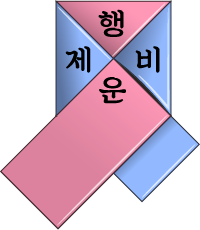
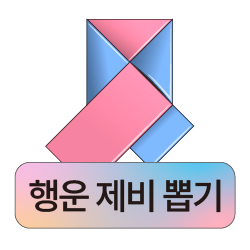
플로팅 이벤트 아이콘 이미지 정리

diff --git a/index-en.html b/index-en.html
@@ -245,7 +245,7 @@
         .lottery-float-button {
             position: fixed;
             right: 0.55rem;
-            top: 5.1rem;
+            top: calc(50vh - 6.85rem);
             z-index: 999998;
             width: 6.375rem;
             height: 6.375rem;
@@ -267,47 +267,36 @@
         }
         .letter-progress-button {
             position: fixed;
-            right: 1.05rem;
-            top: 11.35rem;
+            right: 0.55rem;
+            top: calc(50vh - 0.15rem);
             z-index: 999997;
-            width: 4.25rem;
-            height: 4.25rem;
-            border-radius: 999px;
-            border: 1px solid rgba(255, 255, 255, 0.32);
-            background: linear-gradient(135deg, rgba(206, 147, 179, 0.78), rgba(125, 185, 227, 0.78));
-            box-shadow: 0 12px 28px rgba(36, 59, 107, 0.28), inset 0 1px 0 rgba(255, 255, 255, 0.24);
-            backdrop-filter: blur(8px) saturate(115%);
-            -webkit-backdrop-filter: blur(8px) saturate(115%);
-            color: #ffffff;
-            display: flex;
-            flex-direction: column;
-            align-items: center;
-            justify-content: center;
-            gap: 0.08rem;
+            width: 6.375rem;
+            height: 6.375rem;
+            border: 0;
+            padding: 0;
+            border-radius: 0;
+            background: transparent;
+            box-shadow: none;
+            display: block;
             text-decoration: none;
-            text-align: center;
-            font-weight: 800;
-            letter-spacing: -0.02em;
-            transition: transform 0.2s ease, box-shadow 0.2s ease;
+            cursor: pointer;
         }
 
         .letter-progress-button:hover {
             transform: translateY(-2px);
-            box-shadow: 0 16px 34px rgba(36, 59, 107, 0.36), inset 0 1px 0 rgba(255, 255, 255, 0.26);
         }
 
         .letter-progress-button:active {
             transform: translateY(0);
         }
 
-        .letter-progress-button .letter-mark {
-            font-size: 1.28rem;
-            line-height: 1;
-        }
-
-        .letter-progress-button .letter-label {
-            font-size: 0.7rem;
-            line-height: 1.05;
+        .letter-progress-button img {
+            display: block;
+            width: 100%;
+            height: 100%;
+            object-fit: contain;
+            filter: drop-shadow(0 10px 18px rgba(36, 59, 107, 0.28));
+            pointer-events: none;
         }
 
 
@@ -2172,8 +2161,7 @@
 
     <!-- 하단 네비게이션 - 완전 독립 -->
     <a class="letter-progress-button" href="/letter-progress" aria-label="View letter event progress">
-        <span class="letter-mark">LETTER</span>
-        <span class="letter-label">Progress</span>
+        <img src="images/letter-progress.png" alt="">
     </a>
 
 

diff --git a/index.html b/index.html
@@ -245,7 +245,7 @@
         .lottery-float-button {
             position: fixed;
             right: 0.55rem;
-            top: 5.1rem;
+            top: calc(50vh - 6.85rem);
             z-index: 999998;
             width: 6.375rem;
             height: 6.375rem;
@@ -267,47 +267,36 @@
         }
         .letter-progress-button {
             position: fixed;
-            right: 1.05rem;
-            top: 11.35rem;
+            right: 0.55rem;
+            top: calc(50vh - 0.15rem);
             z-index: 999997;
-            width: 4.25rem;
-            height: 4.25rem;
-            border-radius: 999px;
-            border: 1px solid rgba(255, 255, 255, 0.32);
-            background: linear-gradient(135deg, rgba(206, 147, 179, 0.78), rgba(125, 185, 227, 0.78));
-            box-shadow: 0 12px 28px rgba(36, 59, 107, 0.28), inset 0 1px 0 rgba(255, 255, 255, 0.24);
-            backdrop-filter: blur(8px) saturate(115%);
-            -webkit-backdrop-filter: blur(8px) saturate(115%);
-            color: #ffffff;
-            display: flex;
-            flex-direction: column;
-            align-items: center;
-            justify-content: center;
-            gap: 0.08rem;
+            width: 6.375rem;
+            height: 6.375rem;
+            border: 0;
+            padding: 0;
+            border-radius: 0;
+            background: transparent;
+            box-shadow: none;
+            display: block;
             text-decoration: none;
-            text-align: center;
-            font-weight: 800;
-            letter-spacing: -0.02em;
-            transition: transform 0.2s ease, box-shadow 0.2s ease;
+            cursor: pointer;
         }
 
         .letter-progress-button:hover {
             transform: translateY(-2px);
-            box-shadow: 0 16px 34px rgba(36, 59, 107, 0.36), inset 0 1px 0 rgba(255, 255, 255, 0.26);
         }
 
         .letter-progress-button:active {
             transform: translateY(0);
         }
 
-        .letter-progress-button .letter-mark {
-            font-size: 1.28rem;
-            line-height: 1;
-        }
-
-        .letter-progress-button .letter-label {
-            font-size: 0.7rem;
-            line-height: 1.05;
+        .letter-progress-button img {
+            display: block;
+            width: 100%;
+            height: 100%;
+            object-fit: contain;
+            filter: drop-shadow(0 10px 18px rgba(36, 59, 107, 0.28));
+            pointer-events: none;
         }
 
 
@@ -2172,8 +2161,7 @@
 
     <!-- 하단 네비게이션 - 완전 독립 -->
     <a class="letter-progress-button" href="/letter-progress" aria-label="&#54200;&#51648; &#52286;&#44592; &#51652;&#54665;&#49345;&#54889; &#48372;&#44592;">
-        <span class="letter-mark">&#50612;&#52272;</span>
-        <span class="letter-label">&#51652;&#54665;&#48372;&#44592;</span>
+        <img src="images/letter-progress.png" alt="">
     </a>
 
 